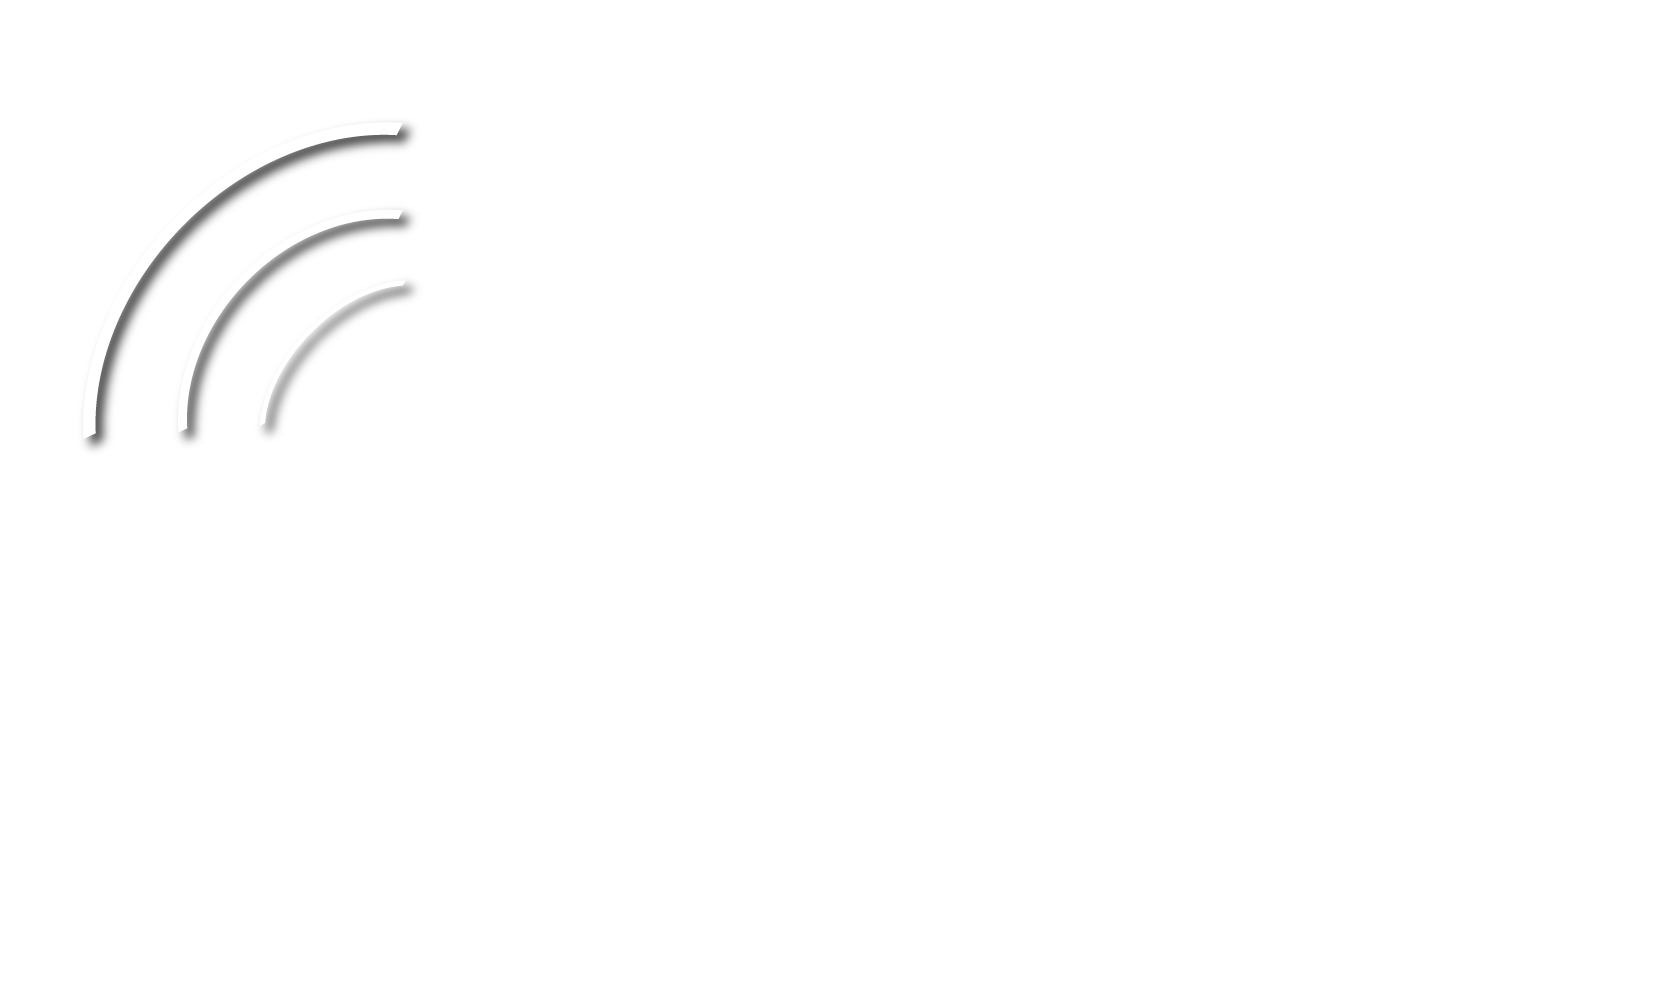
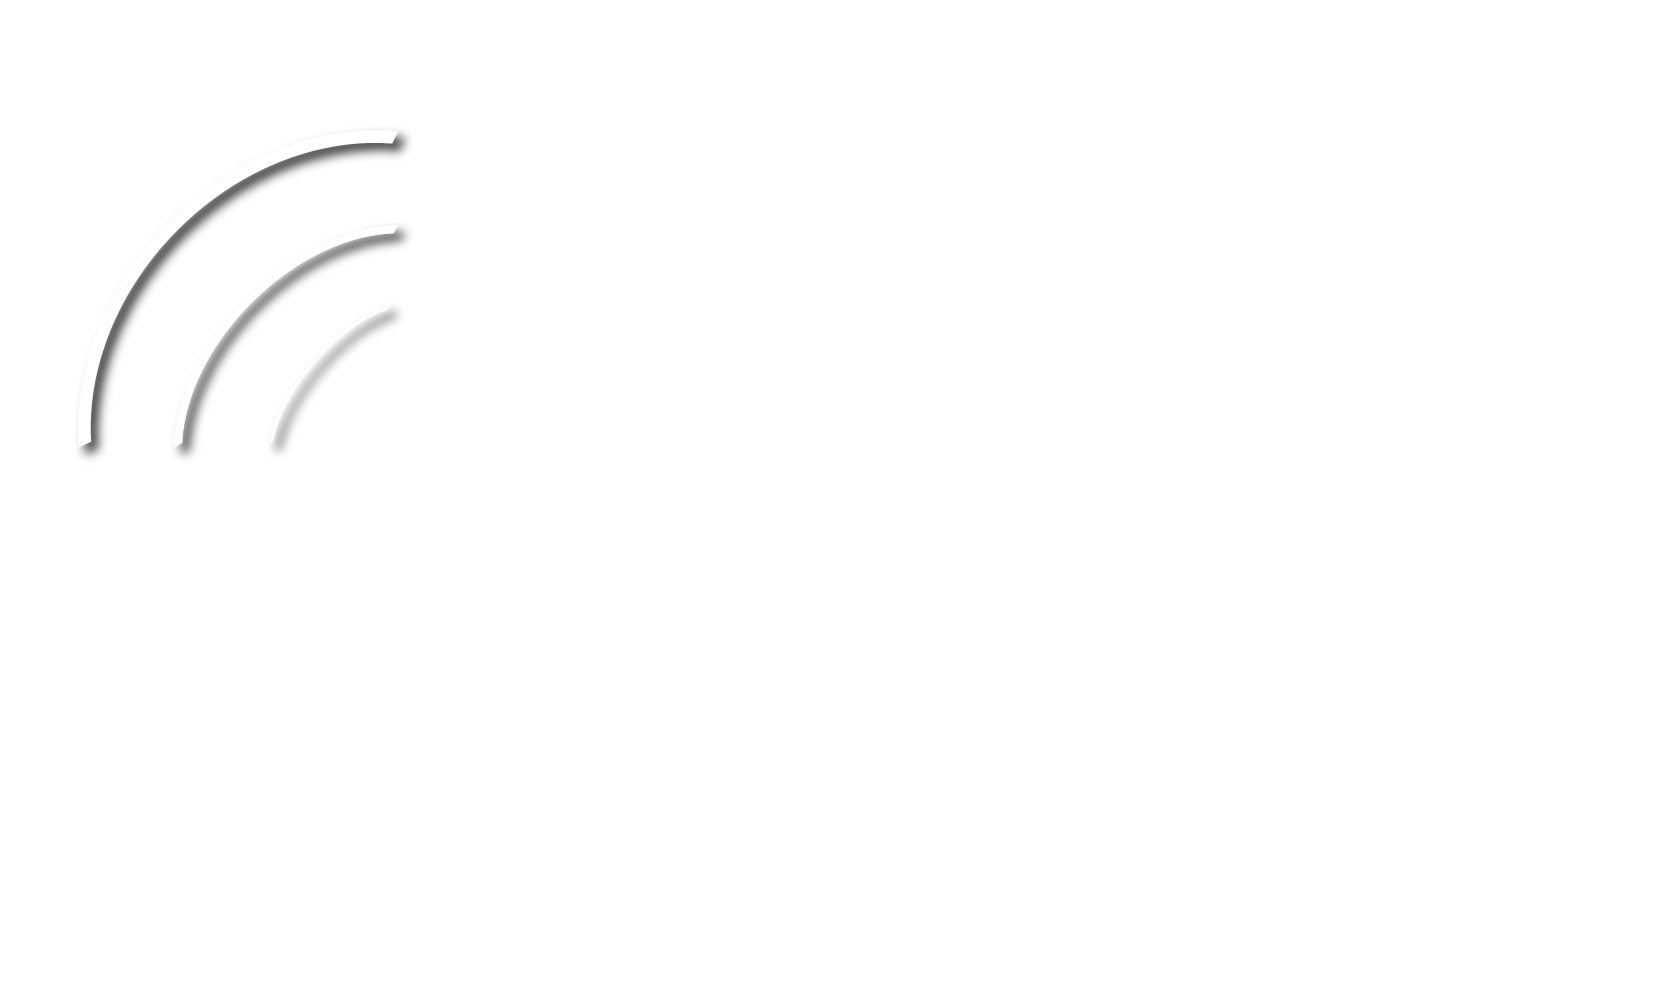
made navbar links centered on small-screen, updated pulse-button, fixed footer text colors

Changed region(s): [[0.0307, 0.217, 0.2455, 0.465], [0.1534, 0.124, 0.2455, 0.186], [0.0921, 0.434, 0.1227, 0.465]]

diff --git a/app/containers/nav.js b/app/containers/nav.js
@@ -17,47 +17,17 @@ class Nav extends Component {
         return (
             <nav>
                 <div id="wrapper">
-                <div className="multilevel-offcanvas off-canvas position-left" id="offCanvasLeft" data-off-canvas>
-                    <ul className="vertical menu">
-                        <li className="avatar-wrapper"><img className="avatar" src="assets/images/avatar-female.png" alt="avatar" width="148" height="148" /></li>
-                        <li><a href="#" onClick={() => this.props.setRoute(HOME)}>Home</a></li>
-                        <li><a href="#" onClick={() => this.props.setRoute(PROFILE)} >Profile</a></li>
-                        <li><a href="#" onClick={() => this.props.setRoute(ABOUT)} >About</a></li>
-                        <li><a href="#" onClick={() => this.props.setRoute(FAQ)} >FAQ</a></li>
-                        <li><a href="#" onClick={() => this.props.setRoute(HELP)} >Help</a></li>
-                    </ul>
-                    <ul className="vertical menu">
-                        <li><a href="#" data-close="offCanvasLeft">Sign Out</a></li>
-                    </ul>
-                    <ul className="menu simple social-links">
-                        <li><a href="#" target="_blank"><i className="fa fa-twitter-square" aria-hidden="true"></i></a></li>
-                        <li><a href="#" target="_blank"><i className="fa fa-facebook-square" aria-hidden="true"></i></a></li>
-                        <li><a href="https://github.com/bspille/pulse" target="_blank"><i className="fa fa-github-square" aria-hidden="true"></i></a></li>
-                        <li><a href="#" target="_blank"><i className="fa fa-google-plus-square" aria-hidden="true"></i></a></li>
-                    </ul>
-                </div>
-                
                 <div className="off-canvas-content" data-off-canvas-content>
                     <div className="nav-bar shadow">
                         <div className="nav-bar-left">
-                            <ul className="menu">
-                                {/*<li>
-                                    <button className="offcanvas-trigger" type="button" data-open="offCanvasLeft">
-                                        <span className="offcanvas-trigger-text hide-for-small-only">Menu</span>
-                                        <div className="hamburger">
-                                            <span className="line"></span>
-                                            <span className="line"></span>
-                                            <span className="line"></span>
-                                        </div>
-                                    </button>
-                                </li>*/}
+                            <ul className="menu"> 
                                 <li>
                                     <a href="/" onClick={() => this.props.setRoute(ROOT)} className="nav-bar-logo hide-for-small-only"><img className="logo" src="assets/images/pulse-logo.png" alt='pulse' /></a>
                                 </li>
                             </ul>
                         </div>
-                        <div className="nav-bar-right">
-                            <ul className="menu menu-hover-lines">
+                        <div id="menu-links" className="row">
+                            <ul className="menu menu-hover-lines small-12 columns">
                                 <li><a href="/" onClick={() => this.props.setRoute(ROOT)}>Home</a></li>
                                 <li><a href="#" onClick={() => this.props.setRoute(PROFILE)} >Profile</a></li>
                                 <li><a href="#" onClick={() => this.props.setRoute(ABOUT)} >About</a></li>
@@ -67,7 +37,7 @@ class Nav extends Component {
                         </div>
                     </div>
                 </div>
-            </div>
+                </div>
             </nav>
         );
     }

diff --git a/app/containers/pulse-button.js b/app/containers/pulse-button.js
@@ -78,7 +78,8 @@ class PulseButton extends Component {
                     {/*<button className="button-hover-default button"><span>Begin new activity</span><i className="fa fa-hourglass-start"></i></button>
                     <br></br>*/}
                     {/*Pulse Button*/}
-                    <button id="pulse-button" className="button button-rounded-hover" onClick={this.getLocation} ><img src="assets/images/radio2.png" alt="go" /></button>
+                    <button id="pulse-button" className="button button-rounded-hover" onClick={this.getLocation} ><img src="assets/images/pulse-button.png" alt="go" /></button>
+                    {/*<input id="pulse-button" type="submit" onClick={this.getLocation}/>*/}
                     <div id="pulse-toggle-button" className="switch large">
                         <input className="switch-input" id="largeSwitch" type="checkbox" name="exampleSwitch" onClick={this.togglePulseButton} />
                         <label className="switch-paddle" htmlFor="largeSwitch">

diff --git a/public/splash.html b/public/splash.html
@@ -17,6 +17,7 @@
     <script src="https://cdnjs.cloudflare.com/ajax/libs/foundation/6.3.1/js/foundation.min.js" integrity="sha256-Nd2xznOkrE9HkrAMi4xWy/hXkQraXioBg9iYsBrcFrs=" crossorigin="anonymous"></script>
     <script src="https://cdnjs.cloudflare.com/ajax/libs/foundation/6.3.1/js/plugins/foundation.offcanvas.min.js"></script>
     <link rel="stylesheet" href="https://cdnjs.cloudflare.com/ajax/libs/animate.css/3.5.2/animate.min.css">
+    <link href="https://fonts.googleapis.com/css?family=Montserrat" rel="stylesheet">
     <link rel="stylesheet" href="assets/css/style.css" type="text/css" />
     <link rel="stylesheet" href="assets/css/menu.css" type="text/css" />
     <link rel="stylesheet" href="assets/css/form.css" type="text/css" />

diff --git a/public/assets/css/style.css b/public/assets/css/style.css
@@ -15,10 +15,13 @@ body {
     /*background-image: url("../images/pw_pattern.png");*/
     /*background-image: url("../images/swirl.png");*/
 }
+
 #welcome{
-    text-transform: uppercase;
+    /*text-transform: uppercase;*/
+    font-family: 'Montserrat', sans-serif;
     font-weight: 700;
 }
+
 .main-container {
     display: flex;
     min-height: 100vh;
@@ -96,9 +99,10 @@ body {
     color: #a8b8c3;
 }
 
+.mobile-bottom-bar .footer-icon {
+    color: #ffffff;
+}
 
-
-
-
-
-
+.mobile-bottom-bar .footer-icon:hover {
+    color: #a8b8c3;
+}

diff --git a/app/components/footer.js b/app/components/footer.js
@@ -8,7 +8,7 @@ export default (props) => {
         return (
         <div className="mobile-bottom-bar">
         <a href="#" className="footer-link">
-        <a href="#" onClick={() => props.setRoute(ROOT)}><i className="fa fa-sign-out"></i><span className='footer-text'>Log out</span></a>
+        <a href="#" onClick={() => props.setRoute(ROOT)}><i className="fa fa-sign-out footer-icon"></i><span className='footer-text'>Log out</span></a>
         </a>
         </div>
 )}    

diff --git a/public/assets/css/menu.css b/public/assets/css/menu.css
@@ -221,3 +221,16 @@
 .hamburger .line:last-child {
     margin-bottom: 0;
 }
+
+/*Menu Links*/
+
+#menu-links {
+    display: flex;
+    margin-right: 10px;
+}
+
+@media screen and (max-width: 39.9375em) {
+        #menu-links {
+            margin-right: auto;
+    }
+}

diff --git a/app/components/google.js b/app/components/google.js
@@ -118,7 +118,7 @@ class GoogleLogin extends Component {
       border: '1px solid transparent',
       fontSize: 20,
       fontWeight: 'bold',
-
+      outline: 'none',
     };
     const styleProp = (() => {
       if (style) {
